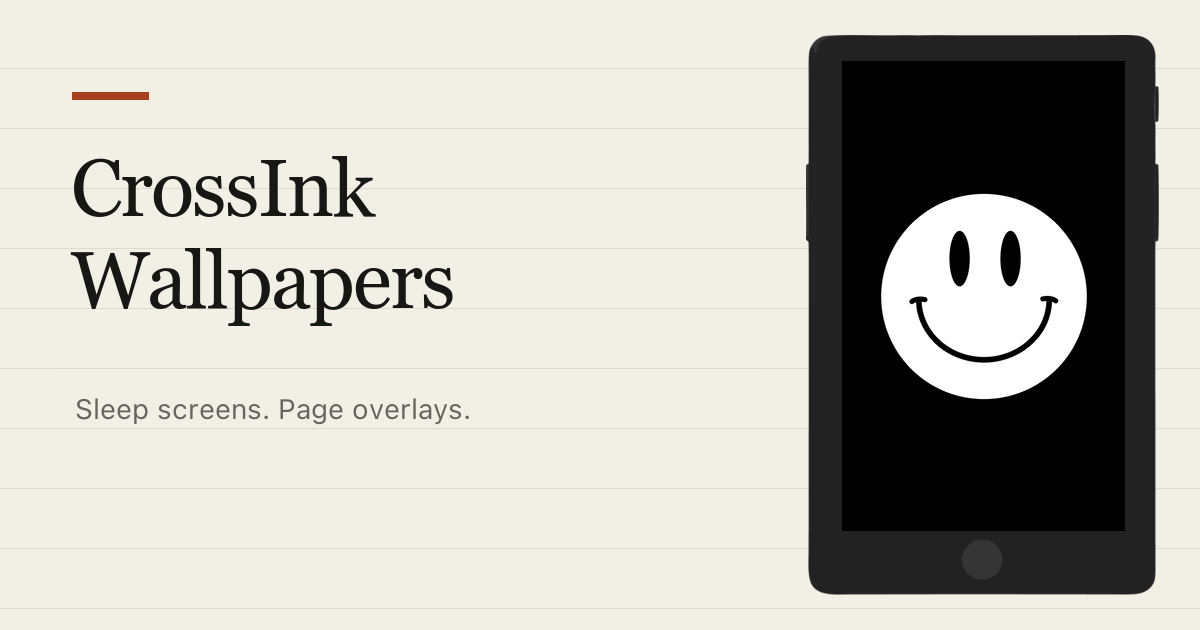
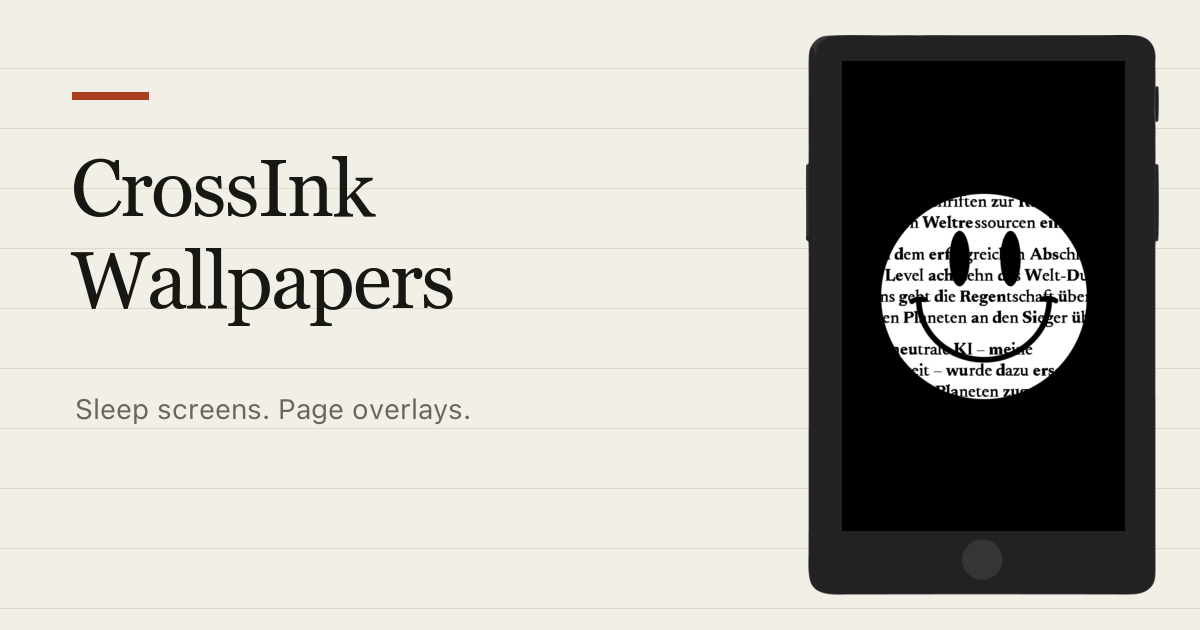
Make collection copy future-proof

Changed region(s): [[0.74, 0.3921, 0.925, 0.5127], [0.74, 0.5429, 0.8942, 0.6333], [0.7708, 0.3016, 0.8942, 0.3619]]

diff --git a/site/index.html b/site/index.html
@@ -46,9 +46,9 @@
     <main>
       <section class="hero" aria-labelledby="hero-title">
         <div class="hero-copy">
-          <p class="kicker">A small e-ink collection</p>
+          <p class="kicker">A growing e-ink collection</p>
           <h1 id="hero-title">Made for the page<br><em>you leave behind.</em></h1>
-          <p class="hero-intro">I made twelve quiet symbols for CrossInk — full-screen when you want a clean break, transparent when the last page should stay.</p>
+          <p class="hero-intro">Simple, useful symbols I made for CrossInk — full-screen as Custom artwork, transparent as Page Overlays.</p>
           <div class="hero-actions">
             <div class="mode-switch" aria-label="Choose sleep-screen mode">
               <button class="mode-button" type="button" data-mode="custom" aria-pressed="false">Custom</button>

diff --git a/README.md b/README.md
@@ -4,9 +4,9 @@
 
 ![CrossInk Wallpapers — Sleep screens and Page Overlays.](site/media/social-preview.png)
 
-I made this small collection for the quiet moment after the last page.
+I’m building this growing collection for the quiet moment after the last page.
 
-Twelve minimal symbols, prepared for CrossInk in two formats: full-screen Custom sleep screens and transparent Page Overlays. Both fit the Xteink X4 and X4 Pro at their native **480 × 800 px** resolution.
+Simple, useful symbols prepared for CrossInk in two formats: full-screen Custom sleep screens and transparent Page Overlays. Both fit the Xteink X4 and X4 Pro at their native **480 × 800 px** resolution.
 
 Browse every design in the lightweight gallery, or download a ready-to-copy ZIP and go straight back to reading.
 
